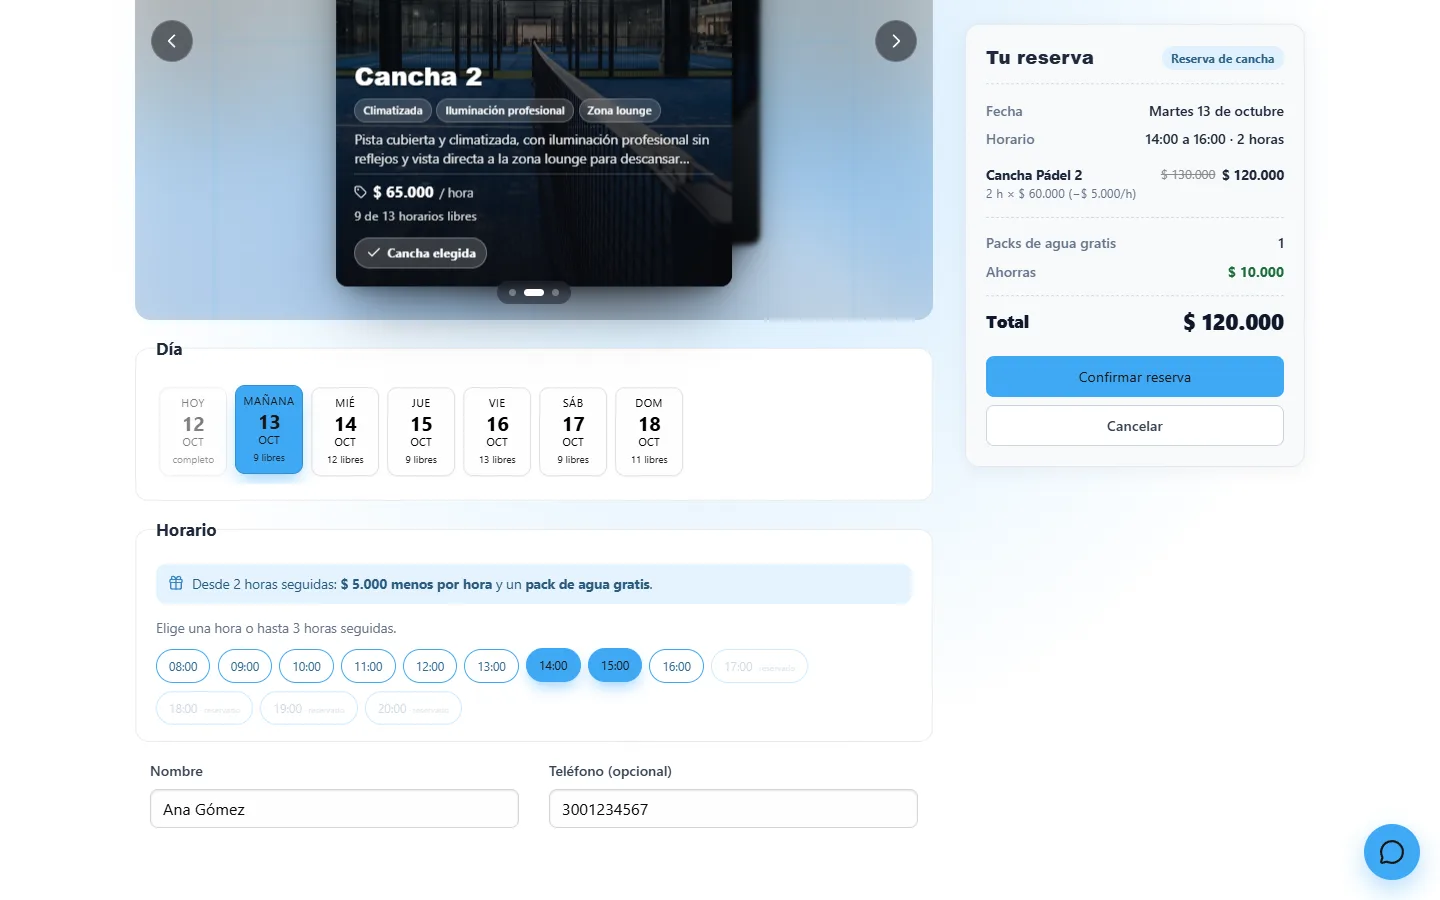
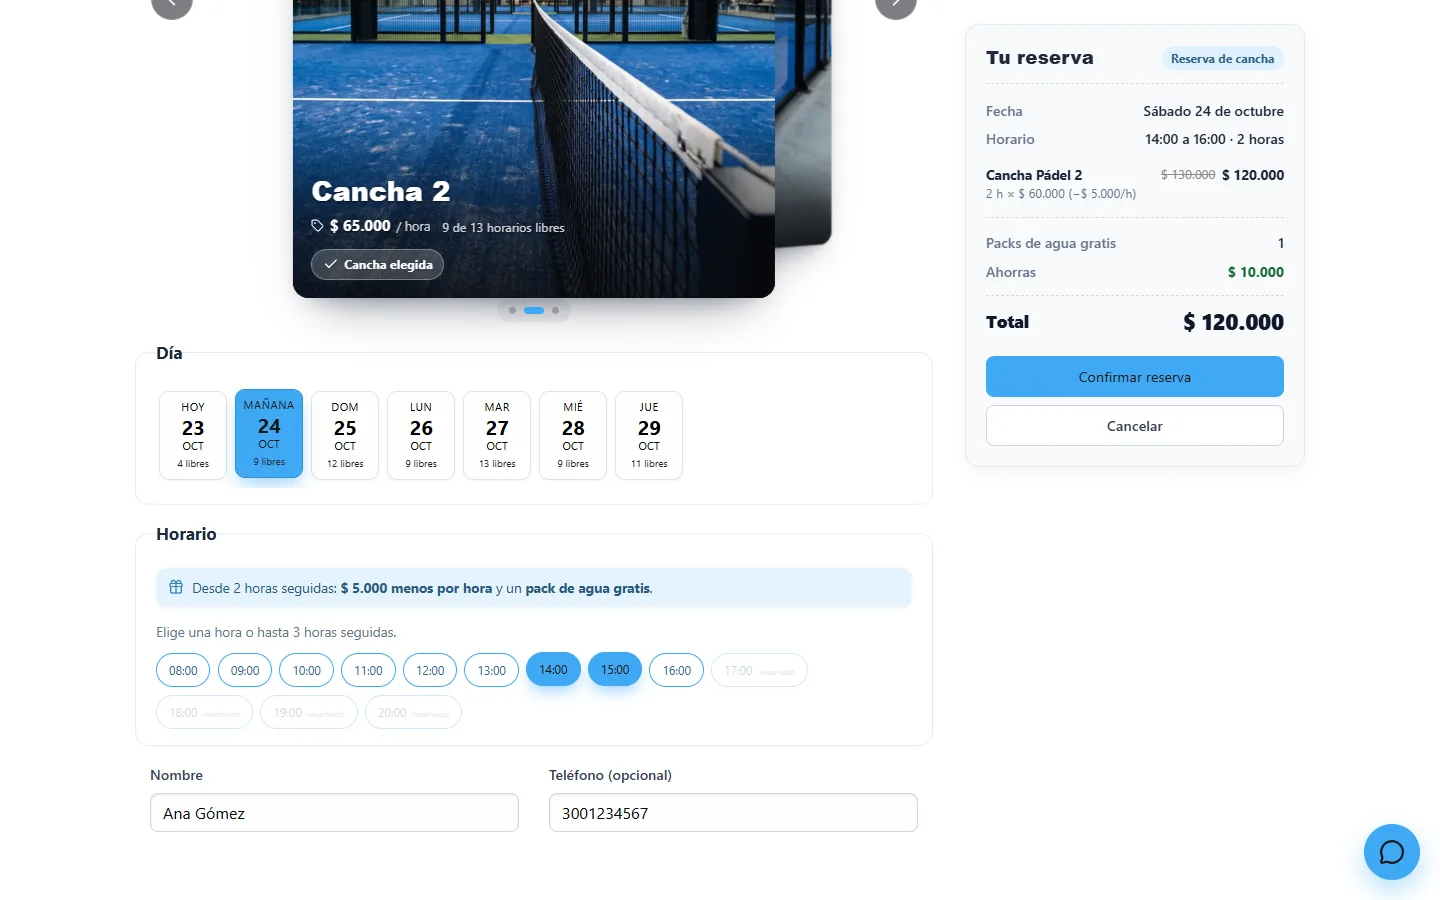
docs: README y capturas con el carrusel nuevo

diff --git a/README.md b/README.md
@@ -70,9 +70,10 @@ Todo se reserva desde una sola vista a pantalla completa. Se abre desde
 "Ver canchas de…" en cada hero o desde "Canchas" en el menú. Tiene:
 
 - **Pestañas por deporte** y el filtro *Solo con horarios libres ese día*.
-- **Carrusel 3D** con la foto, las características, el precio y cuántos
-  horarios libres tiene cada cancha el día elegido.
-- **Visor en grande** de la foto, con su propio botón para elegir horario.
+- **Carrusel 3D** con las fotos de las canchas en grande, el precio y cuántos
+  horarios libres tiene cada una el día elegido.
+- **Visor en grande** de la foto, con las características, la descripción y
+  su propio botón para elegir horario (o agregar la cancha al evento).
 - **URL compartible:** la vista cambia el hash (`#canchas-padel`), así que un
   enlace abre directo un deporte y el botón "atrás" del navegador la cierra.
 
